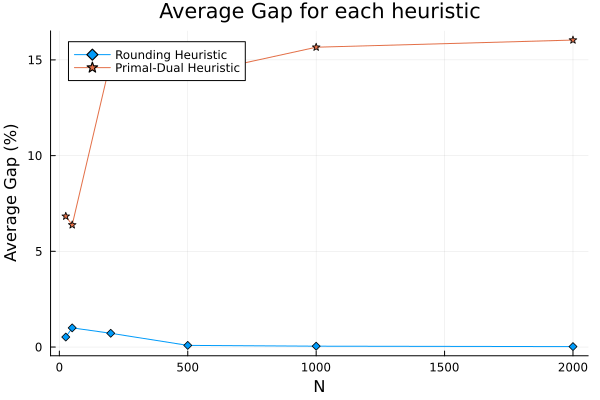
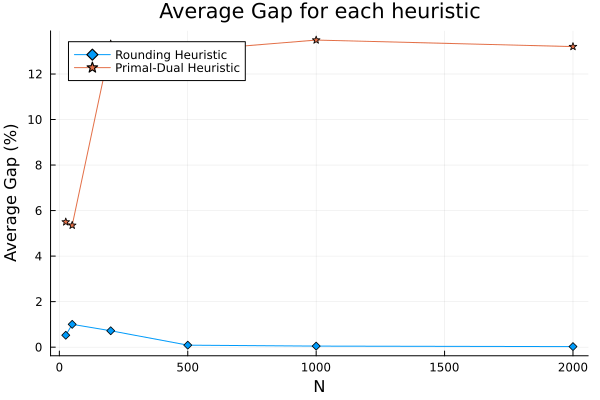
Correcting the primal-dual algo; but now runtime is just meh

diff --git a/SimpleFacilityLocation/results.md b/SimpleFacilityLocation/results.md
@@ -1,52 +1,52 @@
 | Instance | N | M | Relaxed obj | Time | Integer Obj | Time | Integrality Gap | Rounding heuristic | Time | Primal-Dual Heuristic | Time |
 | :----: | -: | -: | -: | -: | -: | -: | -: | -: | -: | -: | -: |
-| 1 | 25 | 10 | 1498.5 | 2.9e-03 | 1500 | 5.7e-03 | 1.5 | 1515 | 3.4e-03 | 1510 | 2.3e-04 |
-| 2 | 25 | 10 | 2191.5 | 2.8e-03 | 2194 | 5.9e-03 | 2.5 | 2201 | 3.0e-03 | 2287 | 3.8e-04 |
-| 3 | 25 | 10 | 1595.0 | 3.4e-03 | 1604 | 6.2e-03 | 9.0 | 1631 | 2.9e-03 | 1865 | 2.7e-04 |
-| 4 | 25 | 10 | 1529.0 | 2.8e-03 | 1532 | 5.4e-03 | 3.0 | 1551 | 2.8e-03 | 1818 | 2.4e-04 |
-| 5 | 25 | 10 | 1399.0 | 2.7e-03 | 1399 | 4.1e-03 | 0.0 | 1399 | 2.8e-03 | 1399 | 2.5e-04 |
-| 6 | 25 | 10 | 1577.0 | 2.5e-03 | 1577 | 3.9e-03 | 0.0 | 1577 | 2.2e-01 | 1687 | 2.6e-04 |
-| 7 | 25 | 10 | 1588.0 | 2.6e-03 | 1588 | 3.8e-03 | 0.0 | 1588 | 2.8e-03 | 1808 | 2.7e-04 |
-| 8 | 25 | 10 | 1752.0 | 2.6e-03 | 1752 | 3.9e-03 | 0.0 | 1752 | 2.6e-03 | 1797 | 3.5e-04 |
-| 9 | 25 | 10 | 1620.0 | 2.7e-03 | 1620 | 3.8e-03 | 0.0 | 1620 | 2.6e-03 | 1648 | 2.9e-04 |
-| 10 | 25 | 10 | 1557.0 | 2.6e-03 | 1557 | 3.8e-03 | 0.0 | 1557 | 2.8e-03 | 1592 | 2.4e-04 |
-| 11 | 50 | 25 | 2210.0 | 1.2e-02 | 2212 | 1.8e-02 | 2.0 | 2221 | 9.9e-03 | 2339 | 6.1e-04 |
-| 12 | 50 | 25 | 2423.5 | 9.9e-03 | 2424 | 1.6e-02 | 0.5 | 2457 | 1.1e-02 | 2766 | 7.8e-04 |
-| 13 | 50 | 25 | 2189.5 | 9.5e-03 | 2197 | 2.4e-02 | 7.5 | 2207 | 1.0e-02 | 2317 | 8.3e-04 |
-| 14 | 50 | 25 | 2186.5 | 1.0e-02 | 2187 | 1.6e-02 | 0.5 | 2232 | 1.0e-02 | 2398 | 5.8e-04 |
-| 15 | 50 | 25 | 2226.0 | 1.0e-02 | 2228 | 1.5e-02 | 2.0 | 2232 | 1.0e-02 | 2325 | 7.4e-04 |
-| 16 | 50 | 25 | 2177.0 | 1.0e-02 | 2178 | 1.9e-02 | 1.0 | 2198 | 9.8e-03 | 2457 | 6.1e-04 |
-| 17 | 50 | 25 | 2558.5 | 1.0e-02 | 2559 | 1.7e-02 | 0.5 | 2569 | 1.1e-02 | 2603 | 9.0e-04 |
-| 18 | 50 | 25 | 2612.0 | 9.6e-03 | 2613 | 1.6e-02 | 1.0 | 2646 | 9.7e-03 | 2699 | 7.0e-04 |
-| 19 | 50 | 25 | 2279.0 | 1.0e-02 | 2280 | 1.6e-02 | 1.0 | 2306 | 1.0e-02 | 2430 | 7.7e-04 |
-| 20 | 50 | 25 | 2327.5 | 9.8e-03 | 2328 | 1.7e-02 | 0.5 | 2365 | 3.9e-02 | 2559 | 6.7e-04 |
-| 21 | 50 | 25 | 2415.0 | 1.0e-02 | 2418 | 1.9e-02 | 3.0 | 2471 | 9.3e-03 | 2539 | 6.6e-04 |
-| 22 | 50 | 25 | 2515.5 | 9.4e-03 | 2516 | 1.6e-02 | 0.5 | 2536 | 9.4e-03 | 2661 | 6.6e-04 |
-| 23 | 50 | 25 | 2442.5 | 9.3e-03 | 2444 | 2.0e-02 | 1.5 | 2461 | 1.0e-02 | 2547 | 6.7e-04 |
-| 24 | 50 | 25 | 2310.5 | 9.9e-03 | 2312 | 1.8e-02 | 1.5 | 2346 | 9.5e-03 | 2390 | 7.2e-04 |
-| 25 | 50 | 25 | 2359.5 | 9.6e-03 | 2362 | 1.6e-02 | 2.5 | 2387 | 9.8e-03 | 2704 | 6.4e-04 |
-| 26 | 50 | 25 | 2338.5 | 9.8e-03 | 2339 | 1.6e-02 | 0.5 | 2395 | 1.0e-02 | 2592 | 6.5e-04 |
-| 27 | 50 | 25 | 2260.0 | 9.9e-03 | 2261 | 2.0e-02 | 1.0 | 2272 | 1.1e-02 | 2282 | 6.7e-04 |
-| 28 | 50 | 25 | 2147.0 | 9.3e-03 | 2147 | 1.1e-02 | 0.0 | 2147 | 9.3e-03 | 2175 | 6.4e-04 |
-| 29 | 50 | 25 | 2471.0 | 9.4e-03 | 2471 | 1.2e-02 | 0.0 | 2471 | 9.5e-03 | 2535 | 7.4e-04 |
-| 30 | 50 | 25 | 2289.0 | 9.5e-03 | 2289 | 1.1e-02 | 0.0 | 2289 | 9.8e-03 | 2386 | 2.9e-02 |
-| 31 | 200 | 100 | 5248.0 | 1.8e-01 | 5251 | 7.0e-01 | 3.0 | 5283 | 1.5e-01 | 6111 | 7.2e-03 |
-| 32 | 200 | 100 | 5006.5 | 1.6e-01 | 5009 | 5.3e-01 | 2.5 | 5075 | 1.8e-01 | 6020 | 5.8e-03 |
-| 33 | 200 | 100 | 4920.0 | 4.1e-01 | 4922 | 3.0e-01 | 2.0 | 4997 | 1.5e-01 | 5831 | 5.0e-03 |
-| 34 | 200 | 100 | 5099.0 | 2.2e-01 | 5099 | 1.7e-01 | 0.0 | 5099 | 2.1e-01 | 5752 | 5.6e-03 |
-| 35 | 200 | 100 | 5175.0 | 1.5e-01 | 5175 | 3.9e-01 | 0.0 | 5175 | 1.8e-01 | 5527 | 5.6e-03 |
-| 36 | 500 | 100 | 10691.0 | 5.0e-01 | 10691 | 7.3e-01 | 0.0 | 10691 | 4.8e-01 | 12358 | 1.7e-02 |
-| 37 | 500 | 100 | 10943.5 | 6.5e-01 | 10945 | 5.6e-01 | 1.5 | 10950 | 7.4e-01 | 12104 | 1.8e-02 |
-| 38 | 500 | 100 | 10862.0 | 4.7e-01 | 10864 | 7.4e-01 | 2.0 | 10903 | 6.9e-01 | 12370 | 1.7e-02 |
-| 39 | 500 | 100 | 11181.0 | 5.0e-01 | 11181 | 7.3e-01 | 0.0 | 11181 | 4.9e-01 | 12740 | 1.7e-02 |
-| 40 | 500 | 100 | 10715.0 | 6.7e-01 | 10715 | 5.7e-01 | 0.0 | 10715 | 6.6e-01 | 12530 | 1.7e-02 |
-| 41 | 1000 | 200 | 16331.0 | 2.5e+00 | 16332 | 3.4e+00 | 1.0 | 16353 | 2.8e+00 | 18911 | 6.8e-02 |
-| 42 | 1000 | 200 | 16325.5 | 3.0e+00 | 16327 | 3.1e+00 | 1.5 | 16341 | 2.7e+00 | 18486 | 7.0e-02 |
-| 43 | 1000 | 200 | 16012.0 | 2.9e+00 | 16012 | 3.1e+00 | 0.0 | 16012 | 3.1e+00 | 18917 | 7.3e-02 |
-| 44 | 1000 | 200 | 16976.0 | 2.8e+00 | 16976 | 3.4e+00 | 0.0 | 16976 | 2.5e+00 | 19948 | 7.3e-02 |
-| 45 | 1000 | 200 | 16948.0 | 2.6e+00 | 16948 | 3.2e+00 | 0.0 | 16948 | 2.9e+00 | 19257 | 8.8e-02 |
-| 46 | 2000 | 300 | 26302.0 | 1.0e+01 | 26303 | 1.1e+01 | 1.0 | 26334 | 8.6e+00 | 30594 | 3.5e-01 |
-| 47 | 2000 | 300 | 25960.0 | 8.4e+00 | 25960 | 9.6e+00 | 0.0 | 25960 | 9.5e+00 | 29895 | 3.9e-01 |
-| 48 | 2000 | 300 | 25919.0 | 8.5e+00 | 25919 | 1.0e+01 | 0.0 | 25919 | 8.3e+00 | 29247 | 3.3e-01 |
-| 49 | 2000 | 300 | 26266.0 | 7.9e+00 | 26266 | 1.1e+01 | 0.0 | 26266 | 9.9e+00 | 31108 | 4.0e-01 |
-| 50 | 2000 | 300 | 25709.0 | 8.4e+00 | 25709 | 1.0e+01 | 0.0 | 25709 | 9.0e+00 | 30188 | 4.2e-01 |
+| 1 | 25 | 10 | 1498.5 | 2.9e-03 | 1500 | 6.5e-02 | 1.5 | 1515 | 2.8e-03 | 1516 | 7.1e-04 |
+| 2 | 25 | 10 | 2191.5 | 2.6e-03 | 2194 | 5.4e-03 | 2.5 | 2201 | 2.9e-03 | 2287 | 1.9e-03 |
+| 3 | 25 | 10 | 1595.0 | 2.9e-03 | 1604 | 6.0e-03 | 9.0 | 1631 | 3.2e-03 | 1865 | 8.4e-04 |
+| 4 | 25 | 10 | 1529.0 | 2.8e-03 | 1532 | 4.8e-03 | 3.0 | 1551 | 2.8e-03 | 1608 | 7.2e-04 |
+| 5 | 25 | 10 | 1399.0 | 2.7e-03 | 1399 | 4.1e-03 | 0.0 | 1399 | 2.7e-03 | 1399 | 7.0e-04 |
+| 6 | 25 | 10 | 1577.0 | 2.5e-03 | 1577 | 1.3e-02 | 0.0 | 1577 | 2.7e-03 | 1687 | 6.9e-04 |
+| 7 | 25 | 10 | 1588.0 | 2.6e-03 | 1588 | 3.7e-03 | 0.0 | 1588 | 3.2e-03 | 1808 | 8.0e-04 |
+| 8 | 25 | 10 | 1752.0 | 2.7e-03 | 1752 | 3.6e-03 | 0.0 | 1752 | 2.8e-03 | 1797 | 8.4e-04 |
+| 9 | 25 | 10 | 1620.0 | 2.7e-03 | 1620 | 4.2e-03 | 0.0 | 1620 | 2.7e-03 | 1648 | 7.4e-04 |
+| 10 | 25 | 10 | 1557.0 | 2.5e-03 | 1557 | 3.5e-03 | 0.0 | 1557 | 2.7e-03 | 1592 | 7.4e-04 |
+| 11 | 50 | 25 | 2210.0 | 1.0e-02 | 2212 | 2.4e-02 | 2.0 | 2221 | 1.2e-02 | 2339 | 2.0e-03 |
+| 12 | 50 | 25 | 2423.5 | 1.1e-02 | 2424 | 3.1e-02 | 0.5 | 2457 | 1.0e-02 | 2639 | 2.5e-03 |
+| 13 | 50 | 25 | 2189.5 | 9.8e-03 | 2197 | 2.1e-02 | 7.5 | 2207 | 9.7e-03 | 2317 | 2.4e-03 |
+| 14 | 50 | 25 | 2186.5 | 1.0e-02 | 2187 | 1.7e-02 | 0.5 | 2232 | 1.7e-02 | 2336 | 2.2e-03 |
+| 15 | 50 | 25 | 2226.0 | 9.6e-03 | 2228 | 1.6e-02 | 2.0 | 2232 | 1.0e-02 | 2298 | 2.4e-03 |
+| 16 | 50 | 25 | 2177.0 | 1.1e-02 | 2178 | 1.6e-02 | 1.0 | 2198 | 9.6e-03 | 2279 | 2.3e-03 |
+| 17 | 50 | 25 | 2558.5 | 3.8e-02 | 2559 | 2.0e-02 | 0.5 | 2569 | 1.0e-02 | 2603 | 2.7e-03 |
+| 18 | 50 | 25 | 2612.0 | 1.1e-02 | 2613 | 1.6e-02 | 1.0 | 2646 | 9.8e-03 | 2699 | 2.7e-03 |
+| 19 | 50 | 25 | 2279.0 | 9.7e-03 | 2280 | 7.6e-02 | 1.0 | 2306 | 9.8e-03 | 2430 | 2.3e-03 |
+| 20 | 50 | 25 | 2327.5 | 1.0e-02 | 2328 | 1.6e-02 | 0.5 | 2365 | 9.8e-03 | 2534 | 2.2e-03 |
+| 21 | 50 | 25 | 2415.0 | 1.0e-02 | 2418 | 2.2e-02 | 3.0 | 2471 | 1.3e-02 | 2539 | 3.4e-03 |
+| 22 | 50 | 25 | 2515.5 | 1.1e-02 | 2516 | 1.8e-02 | 0.5 | 2536 | 1.0e-02 | 2624 | 2.3e-03 |
+| 23 | 50 | 25 | 2442.5 | 1.0e-02 | 2444 | 1.8e-02 | 1.5 | 2461 | 2.1e-02 | 2547 | 2.3e-03 |
+| 24 | 50 | 25 | 2310.5 | 9.5e-03 | 2312 | 1.7e-02 | 1.5 | 2346 | 1.0e-02 | 2390 | 2.6e-03 |
+| 25 | 50 | 25 | 2359.5 | 1.0e-02 | 2362 | 1.7e-02 | 2.5 | 2387 | 9.8e-03 | 2704 | 2.4e-03 |
+| 26 | 50 | 25 | 2338.5 | 9.9e-03 | 2339 | 1.7e-02 | 0.5 | 2395 | 9.8e-03 | 2592 | 2.7e-03 |
+| 27 | 50 | 25 | 2260.0 | 1.8e-02 | 2261 | 2.5e-02 | 1.0 | 2272 | 9.7e-03 | 2270 | 2.3e-03 |
+| 28 | 50 | 25 | 2147.0 | 9.4e-03 | 2147 | 1.2e-02 | 0.0 | 2147 | 9.7e-03 | 2175 | 2.3e-03 |
+| 29 | 50 | 25 | 2471.0 | 9.5e-03 | 2471 | 1.7e-02 | 0.0 | 2471 | 9.6e-03 | 2535 | 2.8e-03 |
+| 30 | 50 | 25 | 2289.0 | 1.0e-02 | 2289 | 1.1e-02 | 0.0 | 2289 | 9.6e-03 | 2386 | 2.1e-03 |
+| 31 | 200 | 100 | 5248.0 | 2.1e-01 | 5251 | 3.2e-01 | 3.0 | 5283 | 2.2e-01 | 5779 | 4.1e-02 |
+| 32 | 200 | 100 | 5006.5 | 2.8e-01 | 5009 | 3.6e-01 | 2.5 | 5075 | 2.2e-01 | 6007 | 4.0e-02 |
+| 33 | 200 | 100 | 4920.0 | 1.8e-01 | 4922 | 3.6e-01 | 2.0 | 4997 | 1.7e-01 | 5803 | 3.5e-02 |
+| 34 | 200 | 100 | 5099.0 | 2.6e-01 | 5099 | 1.9e-01 | 0.0 | 5099 | 1.9e-01 | 5741 | 4.1e-02 |
+| 35 | 200 | 100 | 5175.0 | 2.2e-01 | 5175 | 2.2e-01 | 0.0 | 5175 | 2.2e-01 | 5483 | 4.2e-02 |
+| 36 | 500 | 100 | 10691.0 | 6.4e-01 | 10691 | 6.9e-01 | 0.0 | 10691 | 6.2e-01 | 12336 | 2.5e-01 |
+| 37 | 500 | 100 | 10943.5 | 5.6e-01 | 10945 | 6.2e-01 | 1.5 | 10950 | 5.8e-01 | 12053 | 2.6e-01 |
+| 38 | 500 | 100 | 10862.0 | 5.9e-01 | 10864 | 8.1e-01 | 2.0 | 10903 | 5.5e-01 | 12205 | 2.7e-01 |
+| 39 | 500 | 100 | 11181.0 | 5.4e-01 | 11181 | 5.6e-01 | 0.0 | 11181 | 5.7e-01 | 12613 | 2.6e-01 |
+| 40 | 500 | 100 | 10715.0 | 5.7e-01 | 10715 | 6.6e-01 | 0.0 | 10715 | 5.3e-01 | 12264 | 2.7e-01 |
+| 41 | 1000 | 200 | 16331.0 | 2.4e+00 | 16332 | 2.9e+00 | 1.0 | 16353 | 2.3e+00 | 18146 | 1.6e+00 |
+| 42 | 1000 | 200 | 16325.5 | 2.4e+00 | 16327 | 2.7e+00 | 1.5 | 16341 | 2.2e+00 | 18382 | 1.5e+00 |
+| 43 | 1000 | 200 | 16012.0 | 2.1e+00 | 16012 | 2.6e+00 | 0.0 | 16012 | 2.2e+00 | 18639 | 1.3e+00 |
+| 44 | 1000 | 200 | 16976.0 | 2.2e+00 | 16976 | 2.5e+00 | 0.0 | 16976 | 2.5e+00 | 19868 | 1.8e+00 |
+| 45 | 1000 | 200 | 16948.0 | 2.5e+00 | 16948 | 3.1e+00 | 0.0 | 16948 | 2.5e+00 | 18694 | 1.8e+00 |
+| 46 | 2000 | 300 | 26302.0 | 7.3e+00 | 26303 | 1.1e+01 | 1.0 | 26334 | 7.5e+00 | 29521 | 1.1e+01 |
+| 47 | 2000 | 300 | 25960.0 | 7.9e+00 | 25960 | 1.0e+01 | 0.0 | 25960 | 7.0e+00 | 29411 | 1.0e+01 |
+| 48 | 2000 | 300 | 25919.0 | 6.9e+00 | 25919 | 9.0e+00 | 0.0 | 25919 | 7.9e+00 | 28823 | 1.2e+01 |
+| 49 | 2000 | 300 | 26266.0 | 7.6e+00 | 26266 | 9.6e+00 | 0.0 | 26266 | 7.4e+00 | 29780 | 1.1e+01 |
+| 50 | 2000 | 300 | 25709.0 | 7.7e+00 | 25709 | 9.1e+00 | 0.0 | 25709 | 7.5e+00 | 29798 | 1.1e+01 |
